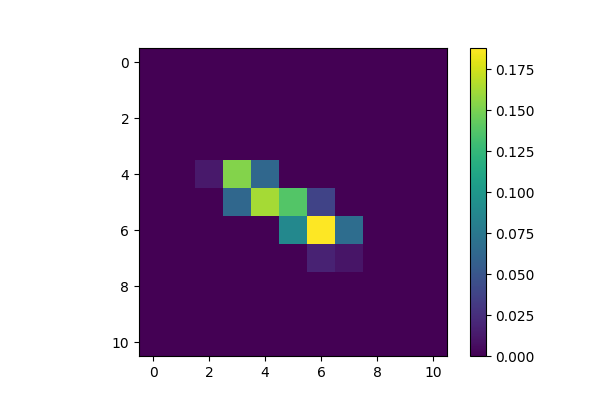
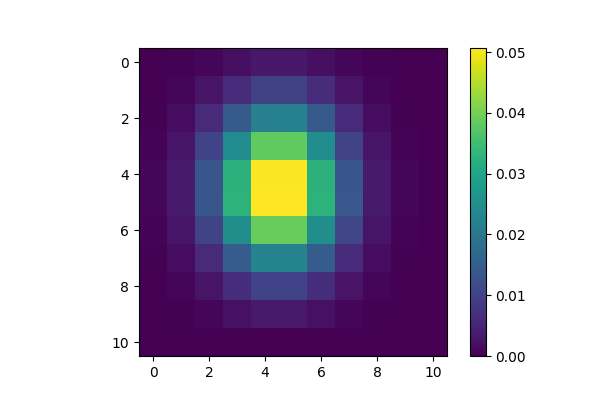
readme

diff --git a/DIPDKP/DIPDKP/main.py b/DIPDKP/DIPDKP/main.py
@@ -99,8 +99,10 @@ def main():
                                 for key, v in netG.named_parameters():
                                     v.requires_grad = False
                                 netG = netG.to(device)
-
-                            args.input_dir = '../data/datasets/{}/DIPDKP_lr_x{}'.format(args.dataset, args.sf)
+                            if args.model=='DIPDKP-motion':
+                                args.input_dir='../data/datasets/{}/DIPDKP-motion_lr_x{}'.format(args.dataset, args.sf)
+                            else:
+                                args.input_dir = '../data/datasets/{}/DIPDKP_lr_x{}'.format(args.dataset, args.sf)
                             filesource = os.listdir(os.path.abspath(args.input_dir)) #
                             filesource.sort()
                             now_time = str(datetime.datetime.now())[:-10].replace(':', '-')

diff --git a/DIPDKP/DIPDKP/model/model.py b/DIPDKP/DIPDKP/model/model.py
@@ -248,6 +248,7 @@ class DIPDKP:
         _, C, H, W = self.lr.size()
         self.MC_warm_up()
         path = os.path.join(self.conf.input_dir, self.conf.filename).replace('lr_x', 'gt_k_x').replace('.png', '.mat')
+        # print(path,self.conf.input_dir)
         if self.conf.real == False:
             kernel_gt = sio.loadmat(path)['Kernel']
         else:

diff --git a/DIPDKP/data/prepare_dataset.py b/DIPDKP/data/prepare_dataset.py
@@ -204,7 +204,7 @@ def generate_dataset(images_path, out_path_im, out_path_ker, k_size, scale_facto
 
                 kernel = gen_kernel_random(k_size, scale_factor, min_var, max_var, noise_ker)
 
-        if model=='motion':
+        else:
             # im = modcrop(im, scale_factor)
             sf=scale_factor[0]
             

diff --git a/README.md b/README.md
@@ -1,20 +1,8 @@
 
 # A Dynamic Kernel Prior Model for Unsupervised Blind Image Super-Resolution (DKP), CVPR2024
 
-This repository is the official PyTorch implementation of DKP to Blind Super-Resolution 
-([arXiv](https://arxiv.org/abs/2404.15620), [supp](https://github.com/XYLGroup/DKP)).
+The origin repo is [Here](https://github.com/XYLGroup/DKP). We improve the code based on DIPDKP provided by paper.
 
- ---
-
-> Deep learning-based methods have achieved significant successes on solving the blind super-resolution (BSR) problem. However, most of them request supervised pre-training on labelled datasets.
-This paper proposes an unsupervised kernel estimation model, named dynamic kernel prior (DKP), to realize an unsupervised and pre-training-free learning-based algorithm for solving the BSR problem. 
-DKP can adaptively learn dynamic kernel priors to realize real-time kernel estimation, and thereby enables superior HR image restoration performances. 
-This is achieved by a Markov chain Monte Carlo sampling process on random kernel distributions. 
-The learned kernel prior is then assigned to optimize a blur kernel estimation network, which entails a network-based Langevin dynamic optimization strategy. 
-These two techniques ensure the accuracy of the kernel estimation.
-DKP can be easily used to replace the kernel estimation models in the existing methods, such as Double-DIP and FKP-DIP, or be added to the off-the-shelf image restoration model, such as diffusion model. 
-In this paper, we incorporate our DKP model with DIP and diffusion model, referring to DIP-DKP and Diff-DKP, for validations. 
-Extensive simulations on Gaussian and motion kernel scenarios demonstrate that the proposed DKP model can significantly improve the kernel estimation with comparable runtime and memory usage, leading to state-of-the-art BSR results. 
 ><p align="center">
   > <img height="400" src="./illustrations/DKP8.png">
 </p>
@@ -22,51 +10,29 @@ Extensive simulations on Gaussian and motion kernel scenarios demonstrate that t
 ## Requirements
 - pip install numpy torch blobfile tqdm pyYaml pillow    # e.g. torch 1.7.1+cu110.
 
-### Pre-Trained Models for DiffDKP
-To restore general images, download this [model](https://openaipublic.blob.core.windows.net/diffusion/jul-2021/256x256_diffusion.pt)(from [guided-diffusion](https://github.com/openai/guided-diffusion)) and put it into `DiffDKP/data/pretrained/`.
-```
-wget https://openaipublic.blob.core.windows.net/diffusion/jul-2021/256x256_diffusion.pt
-wget https://openaipublic.blob.core.windows.net/diffusion/jul-2021/256x256_classifier.pt
-```
-Note that the pre-trained models are only used for DiffDKP, DIPDKP is processed without pre-trained models.
-
-## Quick Run DIPDKP
-To run the code without preparing data, run this command:
-```bash
-cd DIPDKP/DIPDKP
-python main.py
-```
-
-## Quick Run DiffDKP
-To run the code without preparing data, run this command:
-```bash
-cd DiffDKP
-python main.py
-```
-
 ---
 
 ## Data Preparation for DIPDKP
-To prepare testing data, please organize images as `data/datasets/Set5/HR/baby.png`, and run this command:
+First of all, you need put the image in DIPDKP/data/dataset/folder/HR
 ```bash
 cd DIPDKP/data
-python prepare_dataset.py --model DIPDKP --sf 2 --dataset Set5
+python prepare_dataset.py --model DIPDKP --sf 2 --dataset folder # for DIPDKP gaussian blur
+python prepare_dataset.py --model=DIPDKP-motion --sf=2 --dataset=idol # for DIPDKP motion blur
 ```
 
-## Data Preparation for DiffDKP
-To prepare testing data, please organize images as `data/datasets/deblur/Set5/HR_256/baby.png`, and run this command:
+If it is limited by GPU, you can run down.py to crop the image.
+
+## Run DIPDKP
+
+You can run DIPDKP and compare with gt by running
+
 ```bash
-cd DiffDKP/data
-python prepare_dataset.py --model DIPDKP --sf 2 --dataset Set5
+cd DIPDKP
+cd DIPDKP
+python main.py --dataset=idol --model=DIPDKP-motion --sf=2
 ```
 
+Pay attention that you have already prepared the dataset. You can check /DIPDKP/data/datasets/idol/HR , /DIPDKP/data/datasets/idol/DIPDKP-motion_gt_k_x2 and /DIPDKP/data/datasets/idol/HR/DIPDKP-motion_lr_x2 exist.
 
-Commonly used datasets can be downloaded [here](https://github.com/xinntao/BasicSR/blob/master/docs/DatasetPreparation.md#common-image-sr-datasets).
-
-
-
-## Acknowledgement
-
-This project is released under the Apache 2.0 license. The codes are based on [FKP](https://github.com/JingyunLiang/FKP) and [DDNM](https://github.com/wyhuai/DDNM). Please also follow their licenses. Thanks for their great works.
-
-
+## Check the result
+All of the results are saved in /DIPDKP/data/log_DIPDKP, you can check the results.
